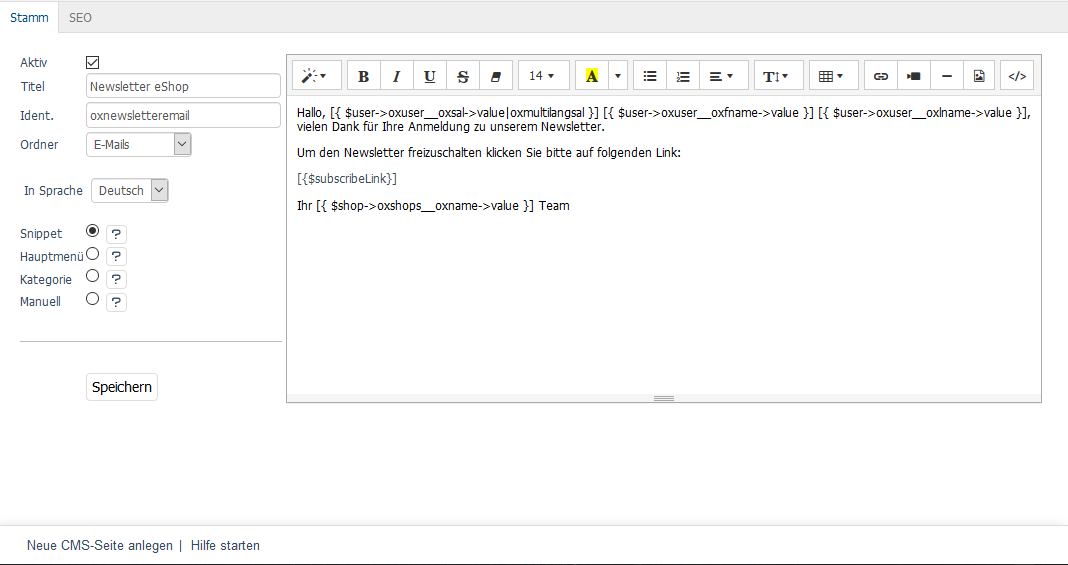
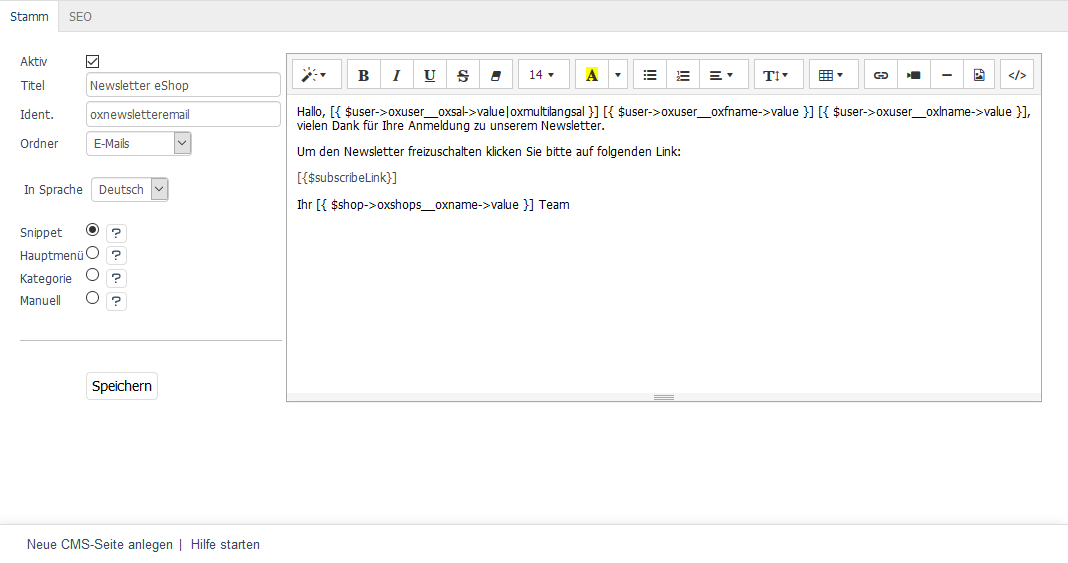
Added :class: with-shadow to the screenshots

diff --git a/einrichtung/cms-seiten/cms-seiten.rst b/einrichtung/cms-seiten/cms-seiten.rst
@@ -5,6 +5,7 @@ CMS steht für Content-Management-System, zu deutsch Inhaltsverwaltungssystem. I
 
 .. image:: ../../media/screenshots-de/oxbaji01.png
    :alt: CMS-Seiten
+   :class: with-shadow
    :height: 541
    :width: 650
 
@@ -12,6 +13,7 @@ Sie werden auch für einzelne Seitenbereiche, die den Kunden informieren, genutz
 
 .. image:: ../../media/screenshots-de/oxbaji02.png
    :alt: Footer im Frontend
+   :class: with-shadow
    :height: 89
    :width: 650
 

diff --git a/einrichtung/cms-seiten/registerkarte-seo.rst b/einrichtung/cms-seiten/registerkarte-seo.rst
@@ -5,6 +5,7 @@ Die Registerkarte :guilabel:`SEO` der CMS-Seite beinhaltet Informationen und Ein
 
 .. image:: ../../media/screenshots-de/oxbajk01.png
    :alt: CMS-Seiten
+   :class: with-shadow
    :height: 343
    :width: 650
 

diff --git a/einrichtung/cms-seiten/registerkarte-stamm.rst b/einrichtung/cms-seiten/registerkarte-stamm.rst
@@ -5,6 +5,7 @@ Auf der Registerkarte :guilabel:`Stamm` werden Einstellungen zur CMS-Seite vorge
 
 .. image:: ../../media/screenshots-de/oxbajj01.png
    :alt: CMS-Seiten
+   :class: with-shadow
    :height: 343
    :width: 650
 
